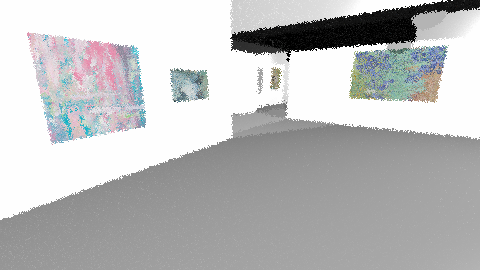
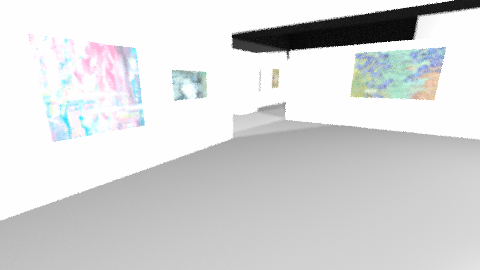
new render pictures

diff --git a/main.py b/main.py
@@ -415,9 +415,9 @@ def renderShadowArt():
 def renderMuseum():
     main_camera = rtc.Camera()
     main_camera.aspect_ratio = 16 / 9
-    main_camera.img_width = 480
+    main_camera.img_width = 1920
     main_camera.center = rtu.Vec3(0, 0, 0)
-    main_camera.samples_per_pixel = 2
+    main_camera.samples_per_pixel = 110
     main_camera.max_depth = 5
     main_camera.vertical_fov = 65
 
@@ -442,7 +442,7 @@ def renderMuseum():
 
     light_main2 = rto.Sphere(
         rtu.Vec3(20, 30,-100),
-        3,
+        0.5,
         rtl.Diffuse_light(rtu.Color(1.0, 1.0, 1.0))
     )
 
@@ -482,6 +482,7 @@ def renderMuseum():
     mat_white = rtm.Lambertian(rtu.Color(1, 1, 1))
     mat_gray = rtm.Lambertian(rtu.Color(0.5,0.5,0.5))
     mat_orange = rtm.Lambertian(rtu.Color(1,0.5,0.2))
+    mat_blue = rtm.Lambertian(rtu.Color(0.5,0.9,1))
 
     mat_phong = rtm.Phong(rtu.Color(1,1,1),5,8,20)
     
@@ -497,19 +498,26 @@ def renderMuseum():
 
 
     left_wall = rto.Box(rtu.Vec3(-30, 0, -20), rtu.Vec3(30, 50, 0), mat_green)
-    scene.add_object(left_wall)
+    #scene.add_object(left_wall)
+
+    left_wall_quad = rto.Quad(rtu.Vec3(-60, 0, 0), rtu.Vec3(90, 0, 0), rtu.Vec3(0, 50, 0 ), mat_green)
+    scene.add_object(left_wall_quad)
 
     right_wall = rto.Box(rtu.Vec3(80, 0, 0), rtu.Vec3(100, 60, 90), mat_pink)
-    scene.add_object(right_wall)
+    #scene.add_object(right_wall)
 
-    left_wall_above = rto.Box(rtu.Vec3(30, 35, -20), rtu.Vec3(80, 60, 0), mat_pink)
+    right_wall_quad = rto.Quad(rtu.Vec3(80, 0, 0), rtu.Vec3(0, 60, 0), rtu.Vec3(0, 0, 90 ), mat_blue)
+    scene.add_object(right_wall_quad)
+
+    left_wall_above = rto.Box(rtu.Vec3(30, 40, -20), rtu.Vec3(80, 60, 0), mat_pink)
     scene.add_object(left_wall_above)
+    
 
     right_wall_above = rto.Box(rtu.Vec3(30, 30, 0), rtu.Vec3(40, 50, 60), mat_green)
     #scene.add_object(right_wall_above)
 
 
-    second_right_wall = rto.Box(rtu.Vec3(80, 0, -50), rtu.Vec3(100, 60, -30), mat_orange)
+    second_right_wall = rto.Box(rtu.Vec3(80, 0, -50), rtu.Vec3(100, 60, -27.5), mat_orange)
     scene.add_object(second_right_wall)
 
     second_left_wall = rto.Quad(rtu.Vec3(100, 0, -40), rtu.Vec3(0, 60, 0), rtu.Vec3(80, 0, 0), mat_metal_gold)
@@ -530,11 +538,8 @@ def renderMuseum():
     flower_painting = rtt.ImageTexture("./textures/flower.png")
     mat_flower_painting = rtm.TextureColor(flower_painting) 
 
-
-    dlight = rtl.Diffuse_light(rtu.Color(0.9, 0.9, 0.9))
-
-    quad_light = rto.Quad(rtu.Vec3(-30, 0, 100), rtu.Vec3(0, 80, 0), rtu.Vec3(180, 0, 0), dlight)
-    #scene.add_object(quad_light)
+    emer_exit = rtt.ImageTexture("./textures/emer_exit.jpg")
+    mat_emer_exit = rtm.TextureColor(emer_exit) 
 
 
 
@@ -553,10 +558,14 @@ def renderMuseum():
 
     scene.add_object(painting_right_wall)
 
+    # Object 
 
+    emer_exit_quad = rto.Quad(rtu.Vec3(47, 36, -5), rtu.Vec3(8, 0, 0), rtu.Vec3(0, 4, 0), mat_emer_exit)
 
- 
+    chair_box = rto.Box(rtu.Vec3(-15, 0, 17.5), rtu.Vec3(4.5, 6, 22.5), mat_white)
 
+    scene.add_object(emer_exit_quad)
+    scene.add_object(chair_box)
 
 
     # Integrator and Renderer setup
@@ -734,7 +743,7 @@ def renderMuseum2():
 
 if __name__ == "__main__":
     #renderShadowArt()
-    #renderMuseum()
-    renderMuseum2()
+    renderMuseum()
+    #renderMuseum2()
 
 
